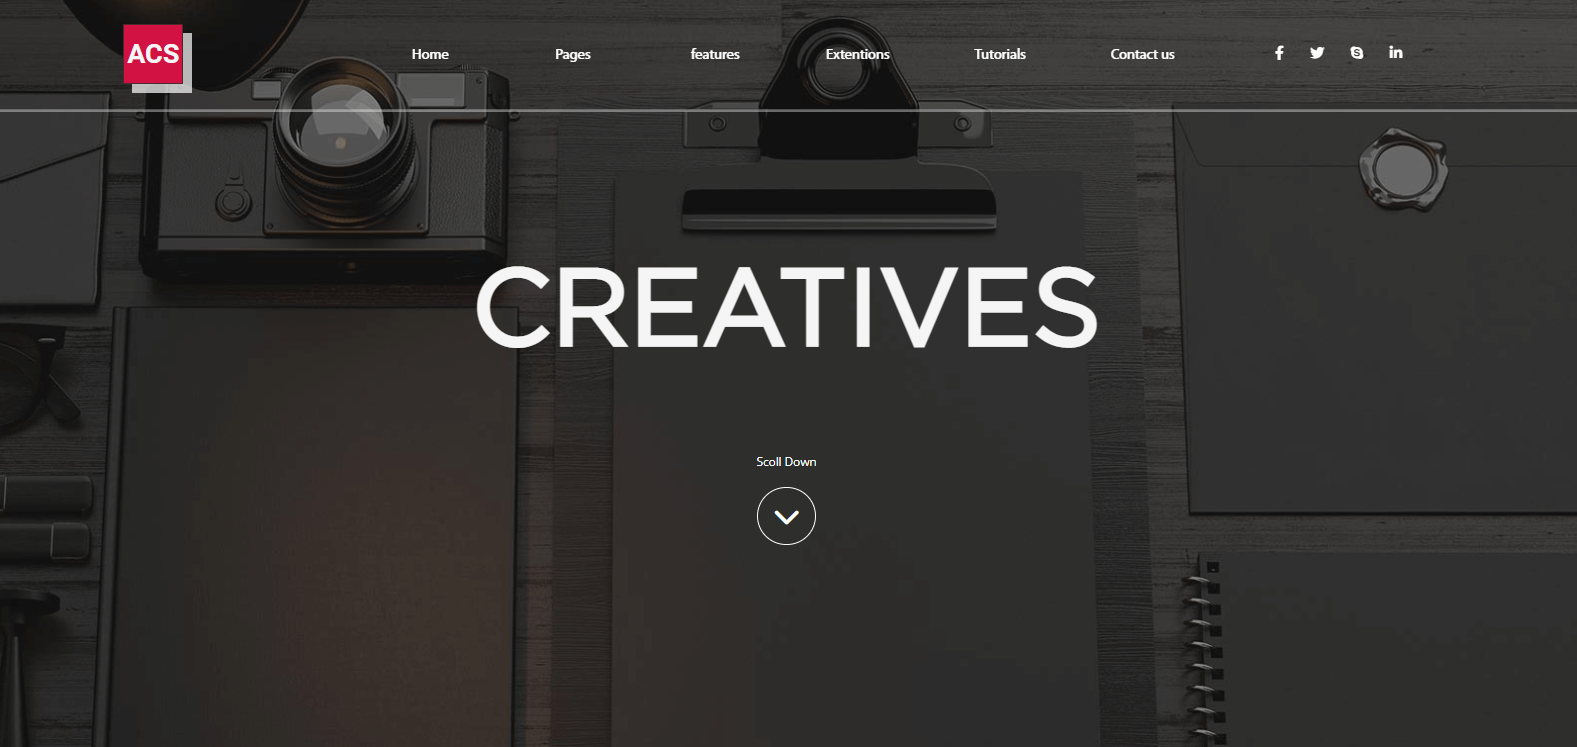
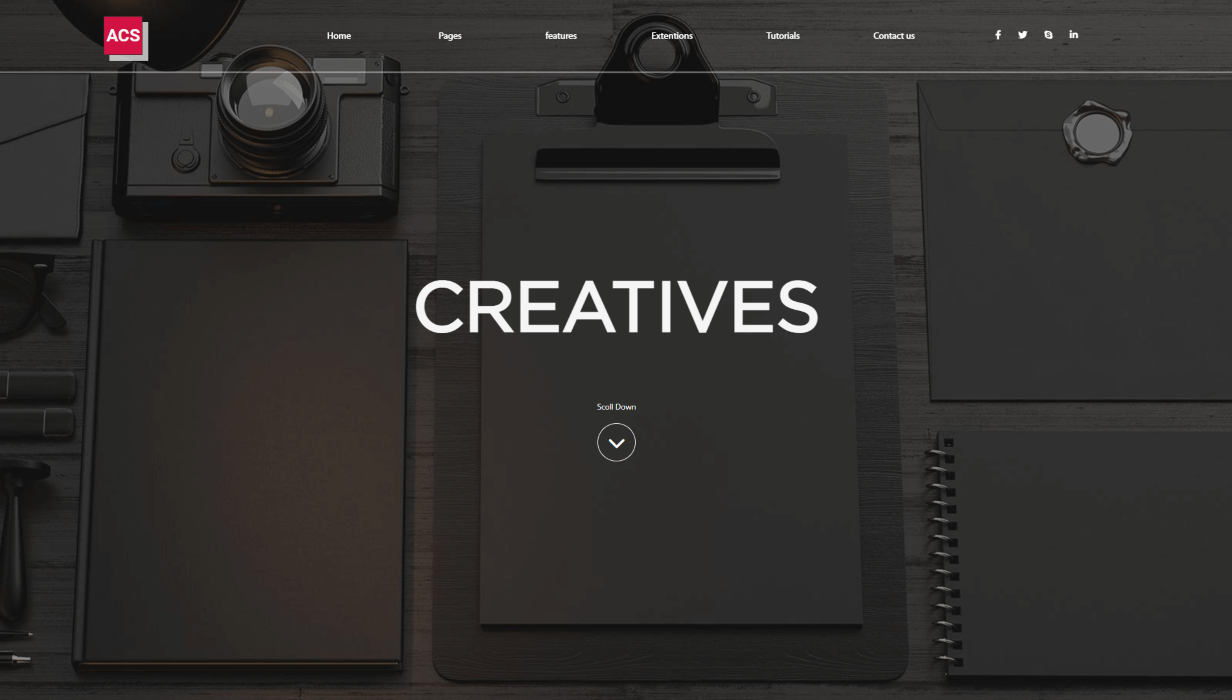
carousel finish

diff --git a/index.html b/index.html
@@ -140,13 +140,13 @@
             </div>
           </div>
         </div>
-        <div class="col-12 col-lg-4">
+        <div class="col-12 col-lg-4 align-items-center">
             <img src="./assets/img/designe.png" alt="image de mes compétences web" width="100%">
         </div>
       </div>
       <!-- Design -->
       <div class="row gy-4 mt-4">
-          <div class="col-12 col-lg-4">
+          <div class="col-12 col-lg-4 align-items-center">
               <img src="./assets/img/skills.png" alt="image de mes compétences designs" width="100%">
           </div>
           <div class="col-12 order-first offset-md-1 col-md-7 order-md-last">
@@ -237,21 +237,21 @@
         </div>
         <div class="carousel-inner">
           <div class="carousel-item active">
-            <img src="./assets/img/creatives.png" class="d-block w-100 vh-75" alt="Projet creatives">
+            <img src="./assets/img/creatives.png" class="d-blockh-100" alt="Projet creatives">
             <div class="carousel-caption d-none d-md-block">
               <h5>Creatives</h5>
               <p>Un projet réaliser en binomes qui consitais a reproduire une maquette...</p>
             </div>
           </div>
           <div class="carousel-item">
-            <img src="./assets/img/capgemen.png" class="d-block w-100" alt="Projet Capgemen">
+            <img src="./assets/img/capgemen.png" class="d-blockh-100" alt="Projet Capgemen">
             <div class="carousel-caption d-none d-md-block">
               <h5>Capgement</h5>
               <p>Un projet de reproduction d'une maquete avec Bootstrap...</p>
             </div>
           </div>
           <div class="carousel-item">
-            <img src="./assets/img/popcode.png" class="d-block w-100" alt="Projet PopCode">
+            <img src="./assets/img/popcode.png" class="d-block h-100" alt="Projet PopCode">
             <div class="carousel-caption d-none d-md-block">
               <h5>PopCode</h5>
               <p>Un projet d'un jeu de recherche de language de développement</p>

diff --git a/assets/css/style.css b/assets/css/style.css
@@ -1,5 +1,5 @@
 @import url('https://fonts.googleapis.com/css2?family=Martel+Sans&family=Molengo&family=Montserrat+Alternates&display=swap');
 @import url('https://fonts.googleapis.com/css2?family=Mogra&display=swap');
-header{background: url(../img/bureau.png)  no-repeat bottom center #000;width: auto;height: 100vh;color: white;}a{text-decoration: none;}body{scroll-behavior: smooth;}
+header{background: url(../img/bureau.png)  no-repeat center center/cover #000;width: auto;height: 100vh;color: white;}a{text-decoration: none;}body{scroll-behavior: smooth;}
 .pad{padding-top: 250px;}.navbar{background-color: rgba(0, 0, 0, 0.66);}.color{color: #85357e;}.colorbis{color: #6327d2;}.passion{font-family: 'Mogra', cursive; font-size: 2rem;}.devh2{font-size: 2.8rem;}.colorprogress{background-color: #6327d2 !important;}.imgcolor{ color: #6327d2 !important;}.php{margin-left: -8px; padding-right: 5px;}h1{font-size: 5rem !important;color: white;font-family: 'Molengo', sans-serif;}h2{color: white;font-family: 'Montserrat Alternates', sans-serif;}h3{color: white;font-family: 'Montserrat Alternates', sans-serif;}p{font-family: 'Martel Sans', sans-serif;}.textap{font-size: 1.2rem;font-family: 'Martel Sans', sans-serif;}
 h4{font-family: 'Martel Sans', sans-serif;}
